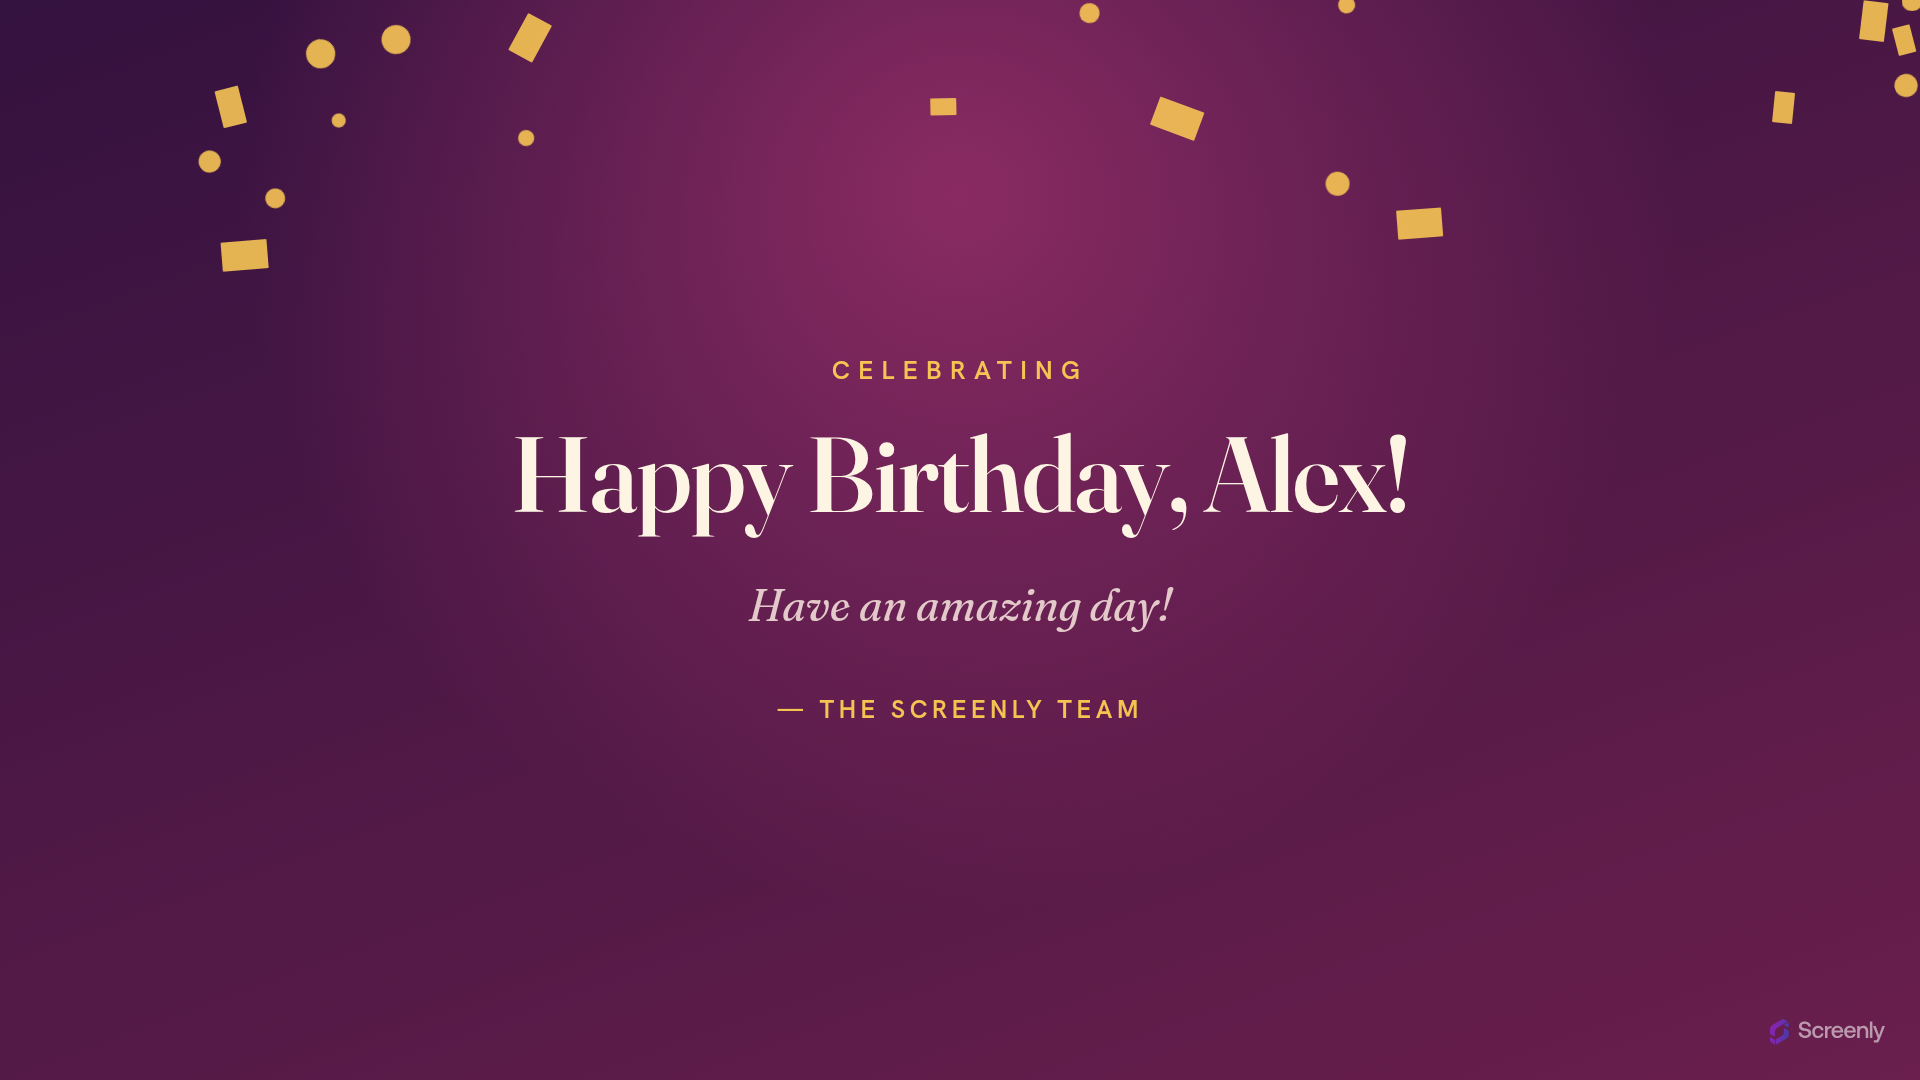
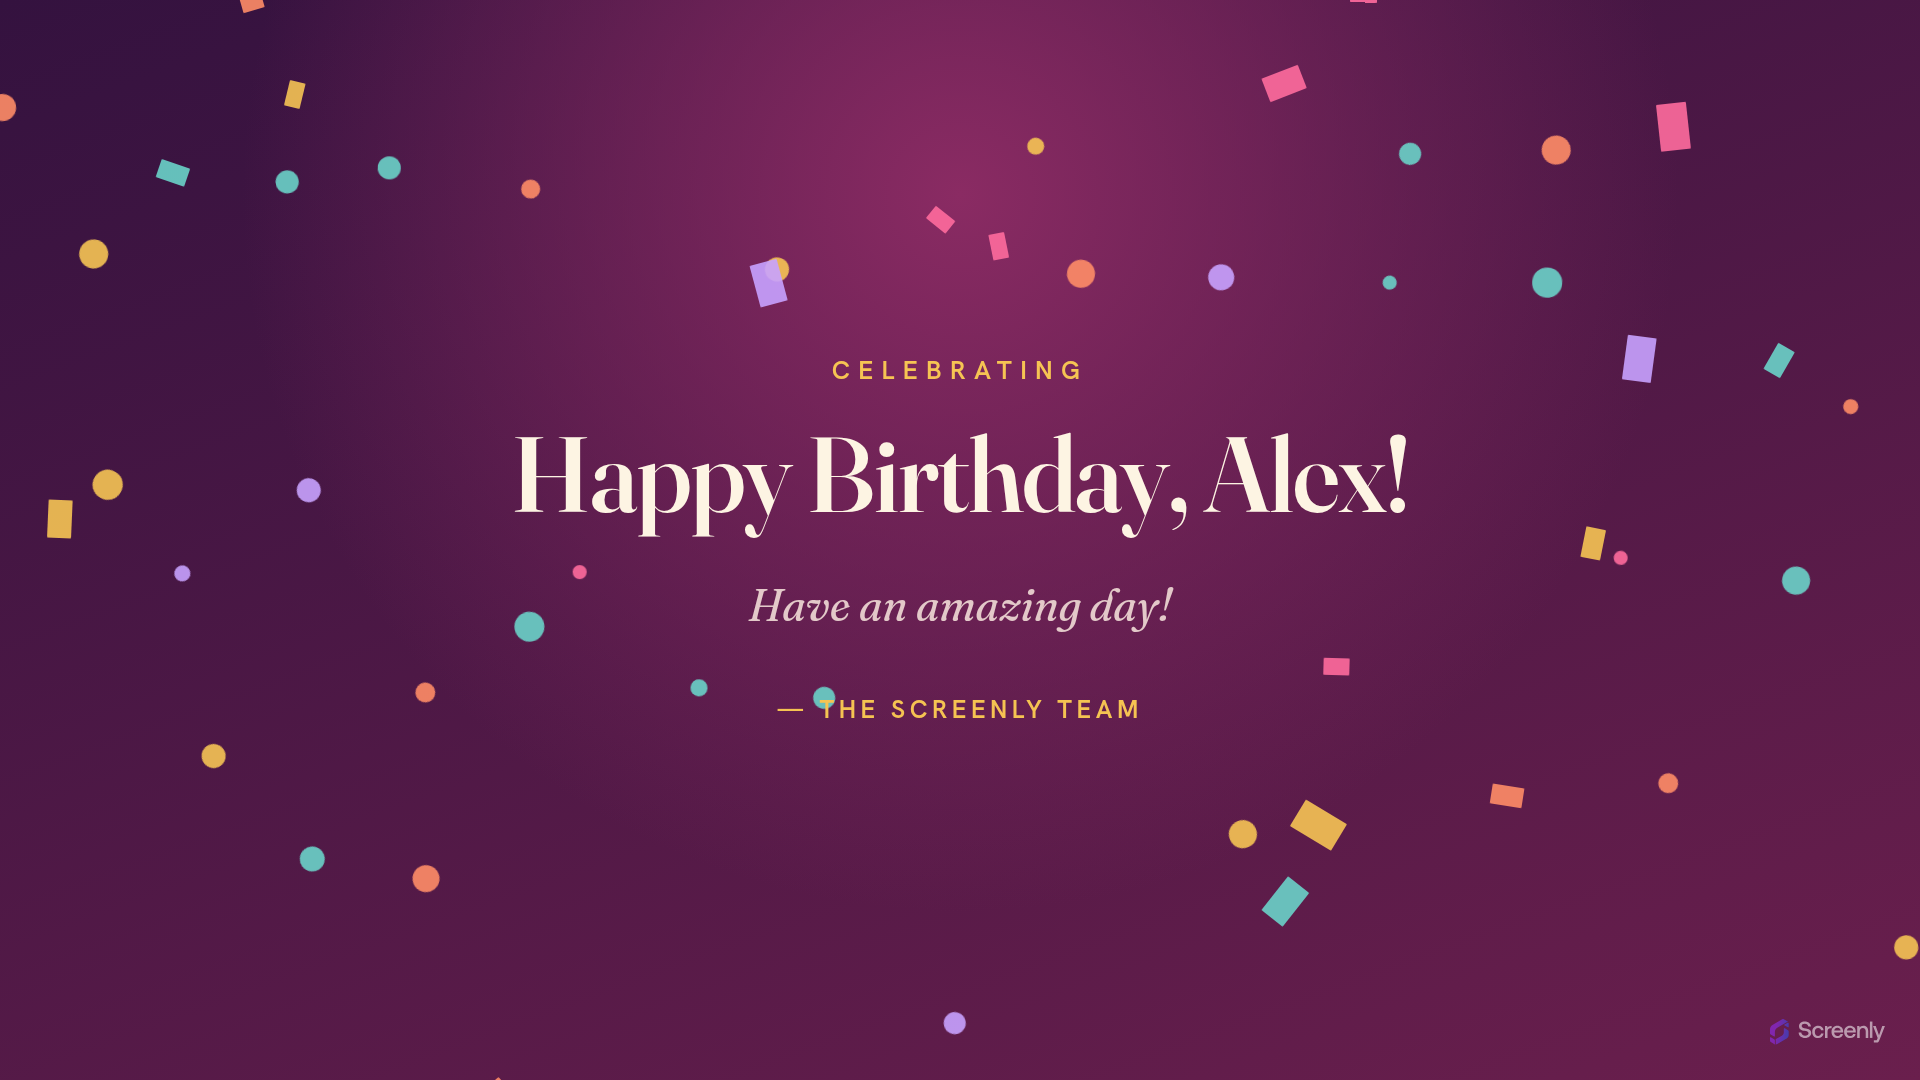
Fix confetti rendering and reduced-motion; refresh previews
Design-audit fixes (P0/P1):
- P0: move the confetti palette out of @theme into a plain :root block. Tailwind
  v4 tree-shakes theme vars it can't see referenced in the CSS, and the colours
  are only referenced from JS-set inline styles — so every scrap but the fallback
  was dropped and the whole shower rendered gold. Now all 5 colours ship.
- P1: give each piece a negative animation-delay spanning its own fall so the
  shower fills the frame from the first paint instead of clustering at the top.
- P1: under prefers-reduced-motion, hold the confetti as a still full-frame
  scatter (kept, not hidden) so the signature survives — placed in @layer
  components so it overrides the animated base rule.

diff --git a/assets/static/styles/tailwind.css b/assets/static/styles/tailwind.css
@@ -19,8 +19,13 @@
   --color-gold: #f6c453;
   --font-display: 'Fraunces', ui-serif, Georgia, 'Times New Roman', serif;
   --font-sans: 'Hanken Grotesk', ui-sans-serif, system-ui, sans-serif;
+}
 
-  /* Confetti palette, indexed by --hue (0..4) from buildConfetti(). */
+/* Confetti palette, referenced only from JS-set inline styles (var(--confetti-N)).
+   Kept OUT of @theme on purpose: Tailwind v4 tree-shakes theme vars it can't see
+   used in the stylesheet, which would drop every colour but the fallback and make
+   the whole shower one colour. As a plain :root block these are always emitted. */
+:root {
   --confetti-0: #f6c453;
   --confetti-1: #ff6b9d;
   --confetti-2: #6ad3c9;
@@ -196,14 +201,26 @@
     border-radius: 50%;
     height: calc(0.7rem * var(--size));
   }
+
+  /* Reduced motion: hold the shower still as a scatter. Lives in @layer
+     components (not base) so it can override the animated .confetti__bit above —
+     the components layer wins over base regardless of specificity. */
+  @media (prefers-reduced-motion: reduce) {
+    .confetti__bit {
+      top: var(--top);
+      transform: translateX(var(--drift)) rotate(var(--rotate));
+    }
+  }
 }
 
 @layer base {
   @media (prefers-reduced-motion: no-preference) {
     /* The confetti shower: each scrap falls the full height with a little
-       horizontal drift and spin, offset by its own delay, looping forever. */
+       horizontal drift and spin. The delay is applied *negative* so every piece
+       starts mid-fall — the shower fills the whole frame from the first paint
+       instead of clustering at the top edge. */
     .confetti__bit {
-      animation: confetti-fall var(--duration) linear var(--delay) infinite;
+      animation: confetti-fall var(--duration) linear calc(var(--delay) * -1) infinite;
     }
 
     /* One orchestrated entrance for the greeting. */
@@ -218,14 +235,6 @@
     }
     .card__from {
       animation: rise 900ms cubic-bezier(0.2, 0.7, 0.2, 1) 320ms both;
-    }
-  }
-
-  /* With reduced motion, the confetti would otherwise sit frozen above the fold;
-     hide it and let the greeting stand on its own. */
-  @media (prefers-reduced-motion: reduce) {
-    .confetti {
-      display: none;
     }
   }
 

diff --git a/assets/static/js/birthday.ts b/assets/static/js/birthday.ts
@@ -37,7 +37,8 @@ export const formatSignature = (from: string): string => (from ? `— ${from}` :
 // stylesheet.
 export type ConfettiPiece = {
   left: number // horizontal start, 0..1 of the viewport width
-  delay: number // animation delay in seconds
+  top: number // resting vertical position, 0..1 (used for the still reduced-motion scatter)
+  delay: number // animation delay in seconds — spans one full fall (see below)
   duration: number // fall duration in seconds
   drift: number // horizontal drift, -1..1
   rotate: number // total rotation in degrees
@@ -51,14 +52,21 @@ export const CONFETTI_HUES = 5
 
 // Deterministically lay out `count` confetti pieces. `rng` is injectable so the
 // layout is testable and reproducible; main.ts passes Math.random at runtime.
+//
+// `delay` spans a piece's own `duration` so that, applied as a *negative*
+// animation-delay, each scrap starts mid-fall — the loop's steady state fills the
+// whole frame from the first paint instead of clustering at the top. `top` gives
+// each piece a resting position for the still, reduced-motion scatter.
 export const buildConfetti = (count: number, rng: () => number = Math.random): ConfettiPiece[] => {
   const pieces: ConfettiPiece[] = []
   if (!Number.isFinite(count) || count <= 0) return pieces
   for (let i = 0; i < count; i++) {
+    const duration = 4 + rng() * 4
     pieces.push({
       left: rng(),
-      delay: rng() * 4,
-      duration: 4 + rng() * 4,
+      top: rng(),
+      duration,
+      delay: rng() * duration,
       drift: rng() * 2 - 1,
       rotate: (rng() * 2 - 1) * 720,
       hue: Math.min(CONFETTI_HUES - 1, Math.floor(rng() * CONFETTI_HUES)),

diff --git a/assets/static/js/main.ts b/assets/static/js/main.ts
@@ -57,6 +57,7 @@ const scatterConfetti = (): void => {
     const el = document.createElement('span')
     el.className = piece.round ? 'confetti__bit confetti__bit--round' : 'confetti__bit'
     el.style.setProperty('--left', `${piece.left * 100}%`)
+    el.style.setProperty('--top', `${piece.top * 100}%`)
     el.style.setProperty('--delay', `${piece.delay}s`)
     el.style.setProperty('--duration', `${piece.duration}s`)
     el.style.setProperty('--drift', `${piece.drift * 12}vw`)

diff --git a/CLAUDE.md b/CLAUDE.md
@@ -65,7 +65,12 @@ the hero and a slow multicoloured confetti shower falls behind it. One fluid roo
 font-size (`clamp(vw + vh)`) drives the whole scale and is orientation-neutral;
 children size in `rem`, so it works from the 800×480 Pi display to 4K, portrait
 and landscape, with no breakpoints. The confetti fall and the entrance are gated
-behind `prefers-reduced-motion` (reduced → confetti hidden, greeting stills).
+behind `prefers-reduced-motion`; when reduced, the confetti holds still as a
+full-frame scatter (kept, not hidden — it's the signature) and the entrance is
+disabled. The confetti palette lives in a plain `:root{}` block, **not** `@theme`:
+Tailwind v4 tree-shakes theme vars it can't see referenced in the CSS, and the
+colours are only referenced from JS-set inline styles, so in `@theme` all but the
+fallback would be dropped and the shower would render one colour.
 
 ## Quality bars
 
